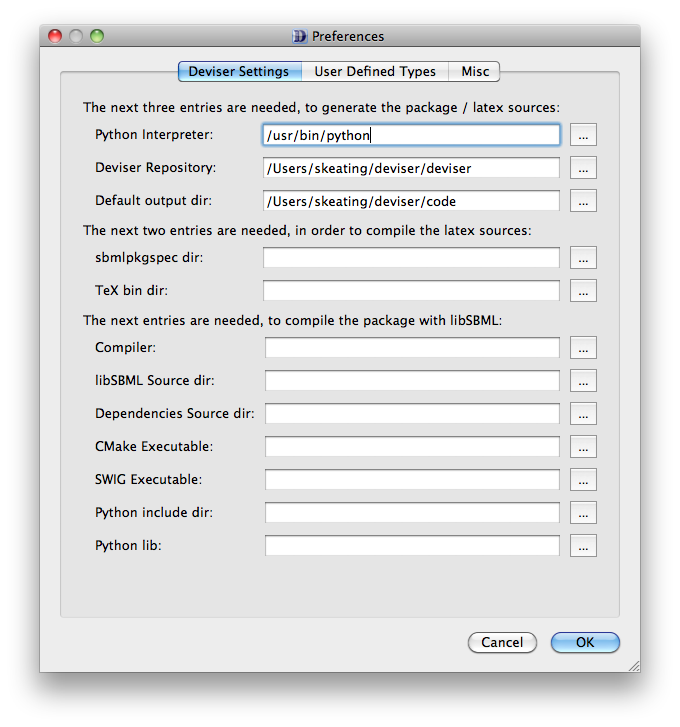
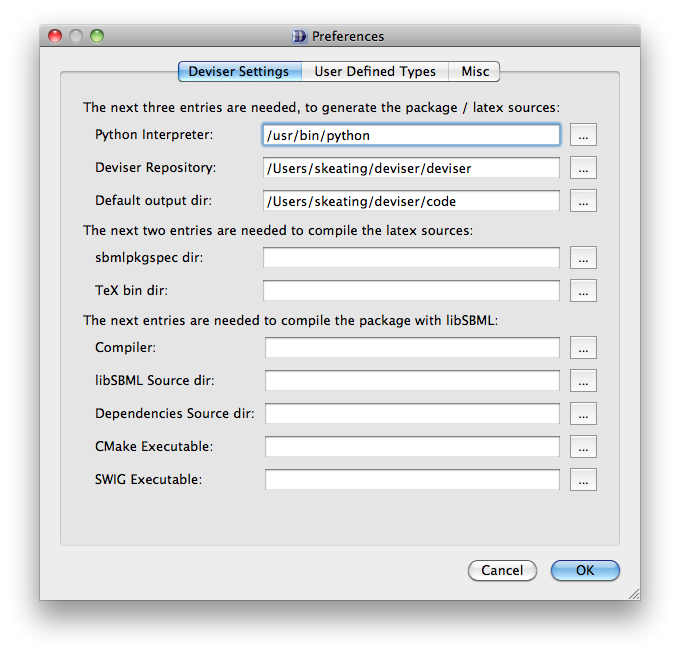
replace screenshot

Changed region(s): [[0.0618, 0.0305, 0.9574, 0.7634], [0.0618, 0.855, 0.9574, 0.9466]]

diff --git a/docs/src/source/getting_started.rst b/docs/src/source/getting_started.rst
@@ -296,9 +296,6 @@ To integrate and compile the code with libSBML the fields requested are:
   SWIG is necessary for this. It is hoped in future to add a facility to 
   directly test the build using a Python interface.
 
-.. todo::
-  Replace screenshot
-
 
 Figure :num:`fig-preferences` illustrates 
 a case
